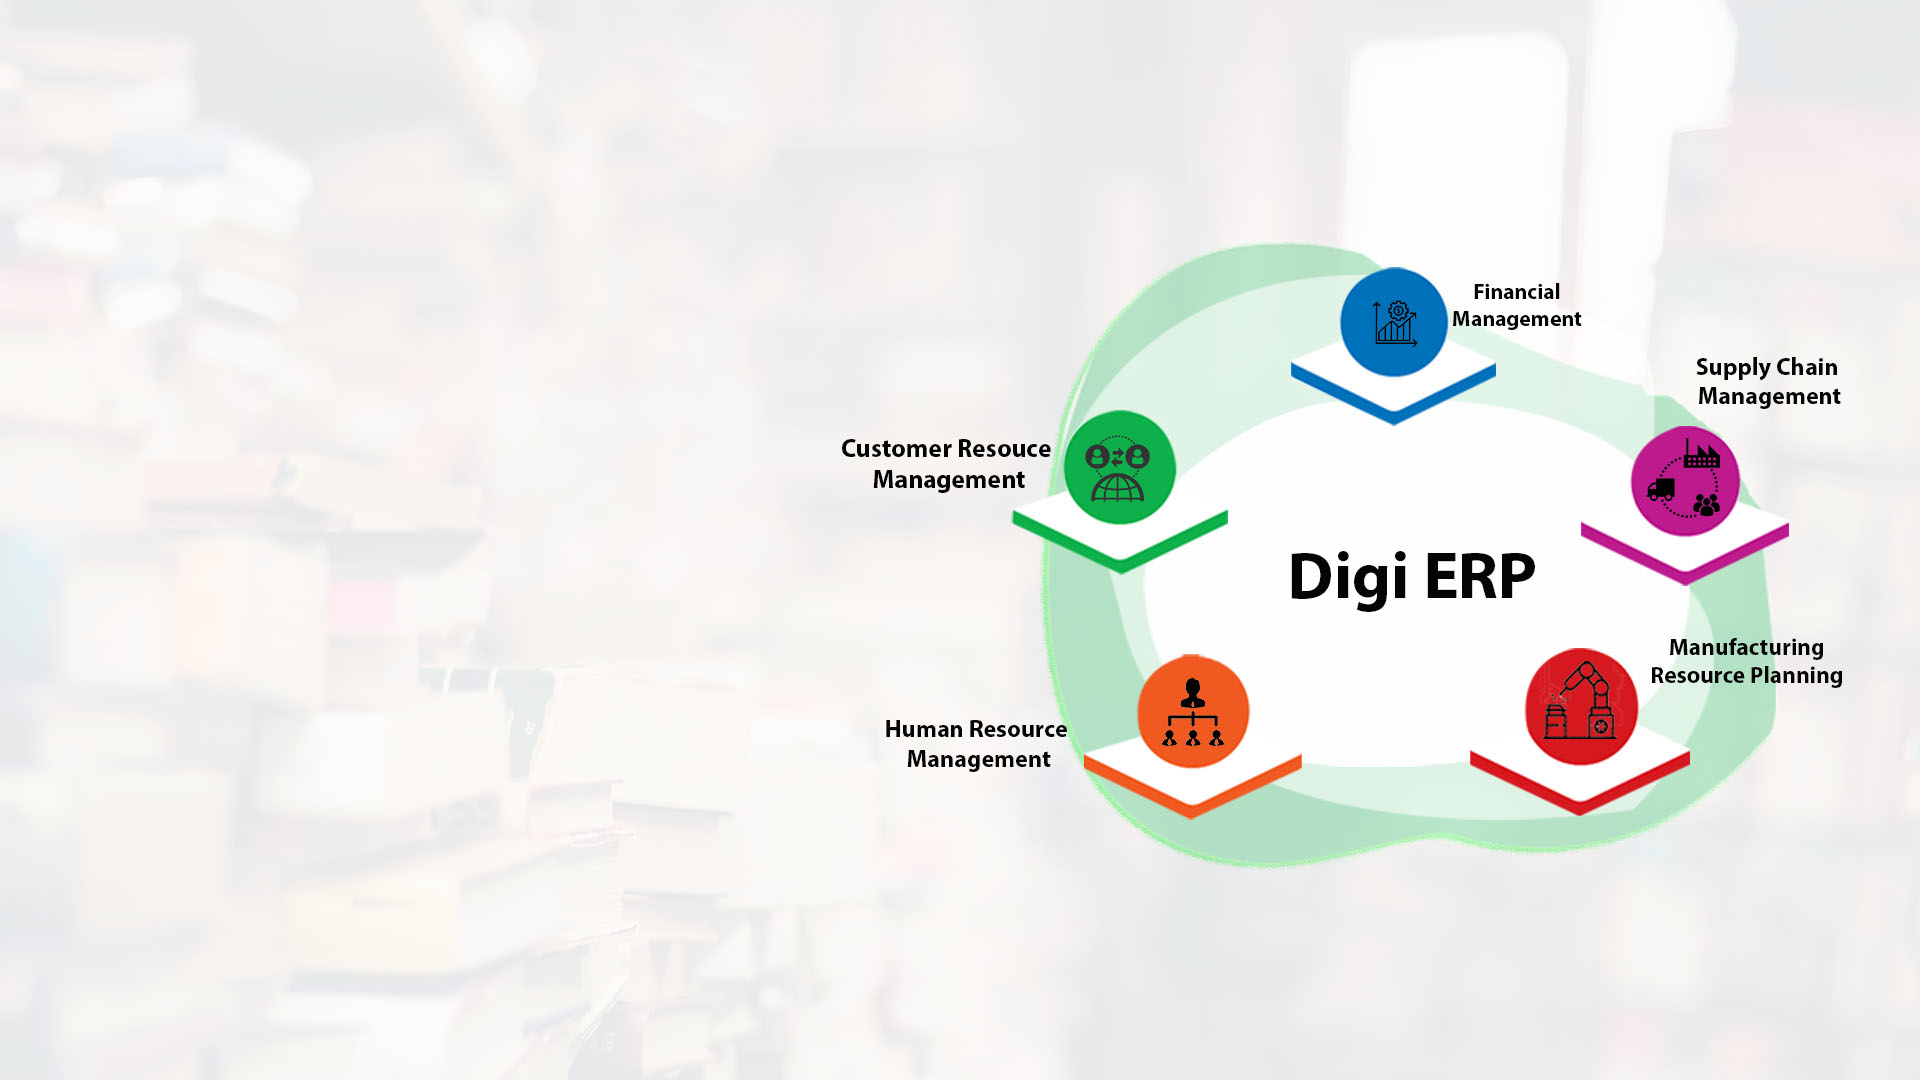
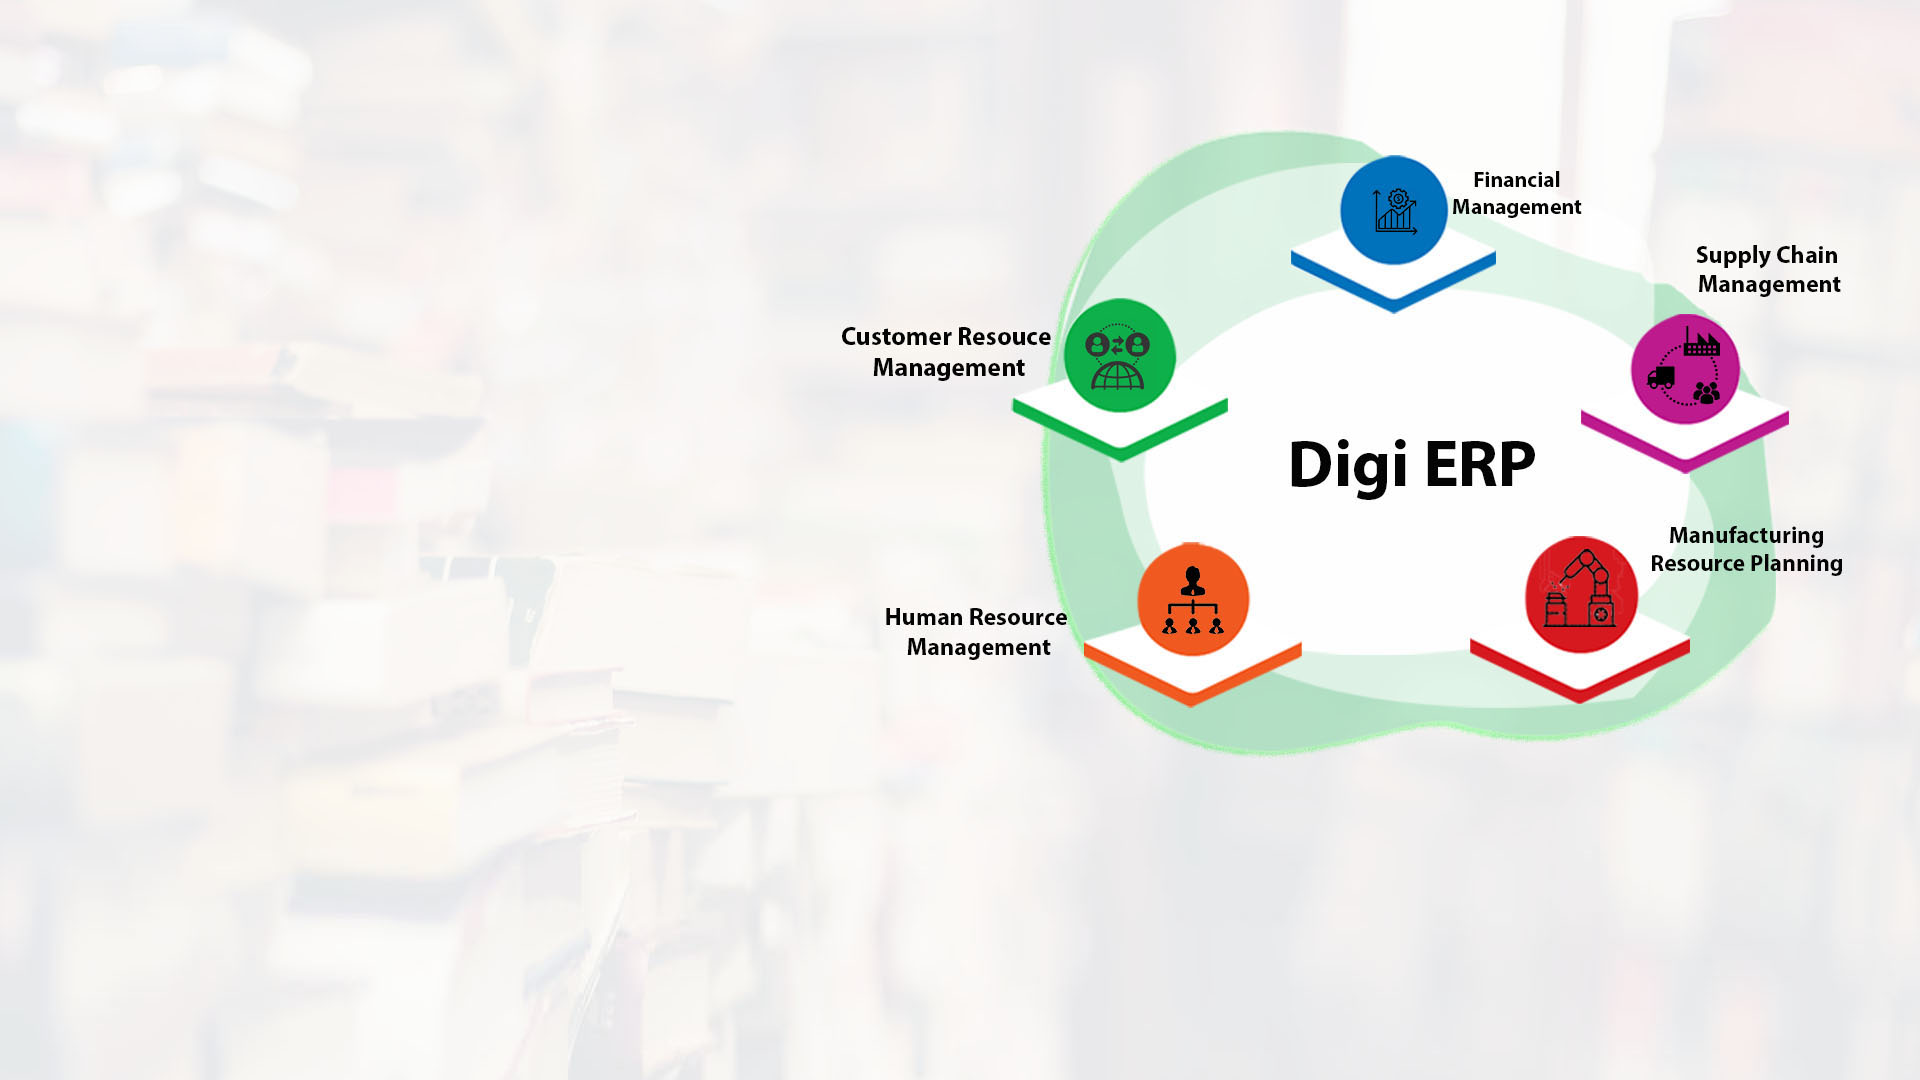
slider changes

Changed region(s): [[0.4375, 0.1222, 0.9688, 0.825]]

diff --git a/index.html b/index.html
@@ -129,14 +129,26 @@
                         </div>
                       </div>
                        <!-- second slide -->
+                       <div class="carousel-item skyblue1">
+                        <!-- <div class="carousel-caption d-md-block">
+                          <h3 class="icon-container" data-animation="animated zoomInLeft">
+                            <span class="fa fa-glass"></span>
+                          </h3>
+                          <h3 data-animation="animated flipInX">
+                            This is the caption for slide 3
+                          </h3>
+                          <button class="btn btn-primary btn-lg" data-animation="animated lightSpeedIn">Button</button>
+                        </div>
+                      </div> -->
+                    </div>
                     <div class="carousel-item skyblue2">
                         <div class="carousel-caption d-md-block">
-                          <h3 class="icon-container" data-animation="animated bounceInDown">
+                          <!-- <h3 class="icon-container" data-animation="animated bounceInDown">
                             <span class="fa fa-heart"></span>
-                          </h3>
-                          <h3 data-animation="animated bounceInUp">
+                          </h3> -->
+                          <!-- <h3 data-animation="animated bounceInUp">
                            We Can provide Best Service 
-                          </h3>
+                          </h3> -->
                           <!-- <button class="btn btn-primary btn-lg" data-animation="animated zoomInRight">Button</button> -->
                         </div>
                       </div>
@@ -160,18 +172,18 @@
                    
           
                     <!-- third slide -->
-                    <div class="carousel-item skyblue4">
+                    <!-- <div class="carousel-item skyblue4">
                         <div class="carousel-caption d-md-block">
                             <h3 class="icon-container" data-animation="animated bounceInDown">
                               <span class="fa fa-heart"></span>
                             </h3>
                             <h3 data-animation="animated bounceInUp">
                              Digi Clove is Best in The Educatinal Product.
-                            </h3>
+                            </h3> -->
                             <!-- <button class="btn btn-primary btn-lg" data-animation="animated zoomInRight">Button</button> -->
-                          </div>
-                    </div>
-                    <div class="carousel-item skyblue5">
+                          <!-- </div>
+                    </div> -->
+                    <!-- <div class="carousel-item skyblue5"> -->
                       <!-- <div class="carousel-caption d-md-block">
                         <h3 class="icon-container" data-animation="animated zoomInLeft">
                           <span class="fa fa-glass"></span>
@@ -182,20 +194,9 @@
                         <button class="btn btn-primary btn-lg" data-animation="animated lightSpeedIn">Button</button>
                       </div>
                     </div> -->
-                  </div>
+                  <!-- </div> -->
                    <!-- five slide -->
-                   <div class="carousel-item skyblue1">
-                      <!-- <div class="carousel-caption d-md-block">
-                        <h3 class="icon-container" data-animation="animated zoomInLeft">
-                          <span class="fa fa-glass"></span>
-                        </h3>
-                        <h3 data-animation="animated flipInX">
-                          This is the caption for slide 3
-                        </h3>
-                        <button class="btn btn-primary btn-lg" data-animation="animated lightSpeedIn">Button</button>
-                      </div>
-                    </div> -->
-                  </div>
+                  
                   </div>
                    <!-- four slide -->
                    
@@ -227,16 +228,17 @@
 
       <div class="container">
         <div class="row">
-          <div class="col-lg-5 col-md-6">
+          <!-- <div class="col-lg-5 col-md-6">
             <div class="about-img">
               <img src="img/about-img.jpg" alt="">
             </div>
-          </div>
+          </div> -->
 
-          <div class="col-lg-7 col-md-6">
+          <div class="col-lg-12 col-md-12">
             <div class="about-content">
-              <h2>About Us</h2>
-              <h3>Good ERP management system can benefit your business in many ways and add to the smooth running of your business.</h3>
+              <h2>ERP Business Software for Manufacturing and Distribution</h2>
+                <h3>Would you like to see your business empowered, ready for exponential growth?</h3>
+              <p>Good ERP management system can benefit your business in many ways and add to the smooth running of your business.</p>
               <p>Digi Clove is a web based innovative solution with modern tech-savy functionalities of Business Process Management.</p>
               <p>Digi Clove is a perfect fit for any kind of any business process. Even, it offers the finest in technology, design, architecture, functionality, features and the ease of use which propose a great user experience.</p>
               <ul>

diff --git a/css/style.css b/css/style.css
@@ -231,7 +231,7 @@ h6 {
 
 #intro {
   background-size: 100%;
-height: 100vh;
+height: auto;
 width: 100%;
   position: relative;
   background-size: cover;
@@ -530,7 +530,7 @@ width: 100%;
 
 
 #about .about-content {
-  padding-top: 40px;
+  padding-top: 18px;
 }
 
 #about .about-content h2 {
@@ -1707,12 +1707,12 @@ width: 100%;
 
 .skyblue {
   background-size: 100%;
-  height: 100vh;
+  /* height: 100vh; */
   width: 100%;
   position: relative;
   background-size: cover;
   
-  background:#f5f8fd url("../img/intro-bg.jpg") no-repeat top center fixed;
+ /* background:#f5f8fd url("../img/intro-bg.jpg") no-repeat top center fixed; */
 	
 }
 .skyblue1 {
@@ -1730,7 +1730,7 @@ height: 100vh;
 width: 100%;
   position: relative;
   background-size: cover;
-  background:#f5f8fd url("../img/slide_2.jpg") no-repeat top center fixed;
+  background:#f5f8fd url("../img/slide_3.jpg") no-repeat top center fixed;
 	
 }
 .skyblue3 {
@@ -1740,7 +1740,7 @@ height: 100vh;
 width: 100%;
   position: relative;
   background-size: cover;
-  background:#f5f8fd url("../img/slide_3.jpg") no-repeat top center fixed;
+  background:#f5f8fd url("../img/Dev1.jpg") no-repeat top center fixed;
 	
 }
 .skyblue4 {
@@ -1804,7 +1804,7 @@ width: 100%;
 	margin-top: 1em; 
 }
 .carousel-inner{
-  height: 850px;
+  height: 800px;
 }
 
 /* Animation delays */
